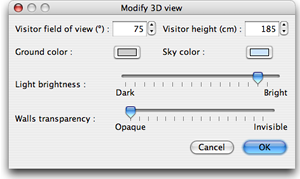
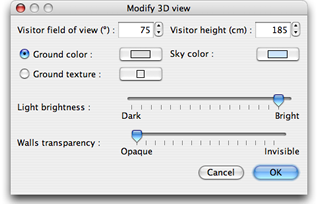
Updated help pages for version 1.2

Changed region(s): [[0.0, 0.0, 1.0, 1.0]]

diff --git a/SweetHome3D/src/com/eteks/sweethome3d/swing/resources/help/fr/editingWalls.html b/SweetHome3D/src/com/eteks/sweethome3d/swing/resources/help/fr/editingWalls.html
@@ -62,14 +62,14 @@
           <tr valign="top">
             <td nowrap><p>3.</p>
             </td>
-            <td><p>L'indicateur d'arriv&eacute;e du mur indique &agrave;  quel point se termine un mur.</p>
+            <td><p>L'indicateur de fin du mur indique &agrave;  quel point se termine un mur.</p>
             </td>
           </tr>
           <tr valign="top">
             <td nowrap><p>4.</p>
             </td>
-            <td><p>L'indicateur de taille du point d'arriv&eacute;e montre le point que vous pouvez glisser-d&eacute;poser
-                pour d&eacute;placer le point d'arriv&eacute;e du mur.</p>
+            <td><p>L'indicateur de taille du point de fin montre le point que vous pouvez glisser-d&eacute;poser
+                pour d&eacute;placer le point de fin du mur.</p>
             </td>
           </tr>
         </table>
@@ -79,17 +79,20 @@
 </div>
 <table width="100%" border="0" cellspacing="0" cellpadding="3">
   <tr>
-    <td><p>Quand le pointeur de la souris survole sur le point de d&eacute;part ou d'arriv&eacute;e du mur s&eacute;lectionn&eacute;,
+    <td><p>Quand le pointeur de la souris survole  le point de d&eacute;part ou de fin du mur s&eacute;lectionn&eacute;,
         celui-ci change d'aspect pour indiquer que vous pouvez glisser-d&eacute;poser ce point pour le d&eacute;placer.
         Pendant que vous appuyez sur le bouton de la souris, une info-bulle indique la longueur du mur.<br>
         Les murs modifi&eacute;s avec la souris sont dessin&eacute;s simultan&eacute;ment dans le plan et la vue 3D. </p>
         <p>Un mur peut &ecirc;tre aussi modifi&eacute;  gr&acirc;ce &agrave; son panneau, en double-cliquant sur ce mur
           dans le plan du logement, ou en choisissant <i>Plan
           &gt; Modifier les murs...</i> apr&egrave;s l'avoir s&eacute;lectionn&eacute;.</p>
-        <p align="center"><img src="images/editingWalls.png" width="301" height="264"></p>
-        <p>Dans le panneau du mur, vous pouvez modifier les coordonn&eacute;es de ses points de d&eacute;part et d'arriv&eacute;e,
-          les couleurs des ses c&ocirc;t&eacute;s gauche et droit, son &eacute;paisseur et sa hauteur.<br>
-          Utilisez les indicateurs de d&eacute;part et d'arriv&eacute;e dessin&eacute;s dans le plan sur chaque mur s&eacute;lectionn&eacute;  pour
+        <p align="center"><img src="images/editingWalls.png" width="323" height="369"></p>
+        <p>Dans le panneau du mur, vous pouvez modifier les coordonn&eacute;es de ses points de d&eacute;part et de fin,
+          les couleurs ou les textures de ses c&ocirc;t&eacute;s gauche et droit, son &eacute;paisseur et sa hauteur.<br>
+          Si c'est un mur inclin&eacute; d'un sous-pente
+          , choisissez des hauteurs diff&eacute;rentes &agrave; ses points de d&eacute;part et de fin, et assurez-vous que
+          le bouton radio <i>Mur inclin&eacute;</i> est s&eacute;lectionn&eacute;.<br>
+          Utilisez les indicateurs de d&eacute;part et de fin dessin&eacute;s dans le plan sur chaque mur s&eacute;lectionn&eacute;  pour
           distinguer son c&ocirc;t&eacute; gauche de son c&ocirc;t&eacute; droit.</p>
       </td>
   </tr>

diff --git a/SweetHome3D/src/com/eteks/sweethome3d/swing/resources/help/fr/drawingWalls.html b/SweetHome3D/src/com/eteks/sweethome3d/swing/resources/help/fr/drawingWalls.html
@@ -33,7 +33,7 @@
         les murs                                                                                                                                                                                                                                                                                                                                                                                                                                                                                                                                                                                                                                                                                                                                                                                                                                                                                                                                                                                                                                       </i></p>
 	    </blockquote>	  
 	  <p>Cliquez dans le plan du logement au point de d&eacute;part du nouveau mur,
-	    puis cliquez ou double-cliquez dans le plan &agrave; son point d'arriv&eacute;e.
+	    puis cliquez ou double-cliquez dans le plan &agrave; son point de fin.
 	    Tant que vous ne double-cliquez pas ou que vous n'appuyez pas sur la touche Echap, chaque nouveau clic d&eacute;signe
 	    le point oppos&eacute; du mur en cours de cr&eacute;ation et le point de d&eacute;part du mur suivant. Pendant le dessin
 	    d'un ensemble de murs, l'extr&eacute;mit&eacute; de d&eacute;part du premier mur sera attach&eacute;e &agrave; l'extr&eacute;mit&eacute; d'un
@@ -96,7 +96,7 @@
         </td>
         <td>
           <p>Une fois qu'un mur est cr&eacute;&eacute;, vous pouvez<a href=editingWalls.html"> changer</a> sa position,
-            sa longueur, son &eacute;paisseur, sa hauteur et ses couleurs.</p>
+            sa longueur, son &eacute;paisseur, sa hauteur, ses couleurs ou les textures qui y sont appliqu&eacute;es.</p>
         </td>
 	    </tr>
 	  <tr valign="top">

diff --git a/SweetHome3D/src/com/eteks/sweethome3d/swing/resources/help/en/editingWalls.html b/SweetHome3D/src/com/eteks/sweethome3d/swing/resources/help/en/editingWalls.html
@@ -82,11 +82,13 @@
         <p>A wall may also be  edited thanks to its pane, by double-clicking on that wall in home plan, or by choosing <i>Plan &gt; Modify
             walls...</i> after
           selecting it.</p>
-        <p align="center"><img src="images/editingWalls.png" width="300" height="264"></p>
-        <p>In the wall pane, you may change&nbsp;the coordinates of its start and end point, the colors of its left and right
-          sides, its thickness and its height.<br>
-          Use the wall start and wall end indicators drawn in plan on each selected wall  to distinguish its left side from
-          its right side.</p>
+        <p align="center"><img src="images/editingWalls.png" width="302" height="367"></p>
+        <p>In the wall pane, you may change&nbsp;the coordinates of its start and end points, the colors or the textures
+          of its left and right sides, its thickness and its height.<br>
+          If it's a sloping wall of a garret, choose different heights at its start and  end points, and ensure
+          yourself that the <i>Sloping wall</i> radio button is selected.<br>
+          Use the wall start and wall end indicators drawn in plan on each selected wall  to distinguish its left side
+          from its right side.</p>
       </td>
   </tr>
 </table>

diff --git a/SweetHome3D/src/com/eteks/sweethome3d/swing/resources/help/en/tips.html b/SweetHome3D/src/com/eteks/sweethome3d/swing/resources/help/en/tips.html
@@ -137,6 +137,14 @@
                                   divide it in multiple segments at its <a href="drawingWalls.html">creation</a>. </P>
                               </TD>
 						  </TR>
+							<TR VALIGN="top">
+                              <td><p>&#149;</p>
+                              </td>
+                              <TD>
+                                <P>To build the sloping walls of a garret, <a href="editingWalls.html">choose</a> different
+                                  heights at theirs start and end points.</P>
+                              </TD>
+						  </TR>
 						  <TR VALIGN="top">
                               <td width="16"><p>&#149;</p></td>
                               <TD>
@@ -174,8 +182,8 @@
 							<tr valign="top">
 								<td width="16"><p>&#149;</p></td>
 								<td>
-									<p>If you want to align a set of pieces of furniture, select these pieces and choose one of the <i>Furniture &gt; Align</i> menus.
-								  Furniture are aligned on the first selected piece.</p>
+									<p>If it's a sloping wall of a garret, choose different heights at its start and end points, and ensure yourself
+								  that the Sloping wall radio button is selected.</p>
 							  </td>
 							</tr>
 							<TR VALIGN="top">

diff --git a/SweetHome3D/src/com/eteks/sweethome3d/swing/resources/help/fr/editing3DView.html b/SweetHome3D/src/com/eteks/sweethome3d/swing/resources/help/fr/editing3DView.html
@@ -101,9 +101,10 @@
         glissez-d&eacute;posez le, ou s&eacute;lectionnez le et appuyez sur les  fl&egrave;ches du clavier. </p>
         <p>D'autres attributs de la vue  3D peuvent &ecirc;tre modifi&eacute;s en choisissant <i>Vue
             3D &gt; Modifier...</i>.</p>
-        <p align="center"><img src="images/editing3DView.png" width="352" height="179"></p>
+        <p align="center"><img src="images/editing3DView.png" width="368" height="207"></p>
         <p>Dans le panneau de la vue 3D, vous pouvez modifier le champ de vue du visiteur virtuel, sa hauteur,
-          la couleur du sol et du ciel (ou du plafond), l'intensit&eacute; de la lumi&egrave;re et la transparence des murs.<br>
+          la couleur du sol et du ciel (ou du plafond), la texture du sol, l'intensit&eacute; de la lumi&egrave;re et la
+          transparence des murs.<br>
         L'&eacute;l&eacute;vation du point du vue du visiteur virtuel est &eacute;gale aux 13/14 de sa hauteur selon les proportions d'un adulte
         humain.</p>
       </td>

diff --git a/SweetHome3D/src/com/eteks/sweethome3d/swing/resources/help/en/editing3DView.html b/SweetHome3D/src/com/eteks/sweethome3d/swing/resources/help/en/editing3DView.html
@@ -99,9 +99,9 @@
         it and press the keyboard arrows. </p>
         <p>Other attributes of the 3D view may be edited  by choosing <i>3D
           view &gt; Modify...</i>.</p>
-        <p align="center"><img src="images/editing3DView.png" width="300" height="179"></p>
+        <p align="center"><img src="images/editing3DView.png" width="318" height="204"></p>
         <p>In the 3D view pane, you may change&nbsp;the virtual visitor field of view, its height, the ground and
-          sky (or ceiling) color, the light brightness and walls transparency.<br>
+          sky (or ceiling) color, the ground texture, the light brightness and walls transparency.<br>
           The elevation of the virtual visitor point of view is equal to 13/14 of its height to respect adult human proportions.</p>
       </td>
   </tr>

diff --git a/SweetHome3D/src/com/eteks/sweethome3d/swing/resources/help/fr/tips.html b/SweetHome3D/src/com/eteks/sweethome3d/swing/resources/help/fr/tips.html
@@ -146,6 +146,14 @@
                               </TD>
 						  </TR>
 							<TR VALIGN="top">
+                              <td><p>&#149;</p>
+                              </td>
+                              <TD>
+                                <P>Pour construire les murs inclin&eacute;s d'un sous-pente, <a href="editingWalls.html">choisissez</a> des
+                                  hauteurs diff&eacute;rentes &agrave; leurs points de d&eacute;part et de fin.</P>
+                              </TD>
+						  </TR>
+							<TR VALIGN="top">
                               <td width="16"><p>&#149;</p></td>
                               <TD>
                                 <P>Quand vous choisissez <i>Edition &gt; Copier</i> or <i>Edition &gt; Couper</i>, les objets

diff --git a/SweetHome3D/src/com/eteks/sweethome3d/swing/resources/help/fr/editingDimensions.html b/SweetHome3D/src/com/eteks/sweethome3d/swing/resources/help/fr/editingDimensions.html
@@ -69,9 +69,9 @@
           <tr valign="top">
             <td nowrap><p>3.</p>
             </td>
-            <td><p>L'indicateur de taille du point d'arriv&eacute;e montre le point et la ligne d'extension que vous pouvez
+            <td><p>L'indicateur de taille du point de fin montre le point et la ligne d'extension que vous pouvez
                 glisser-d&eacute;poser
-                pour d&eacute;placer le point d'arriv&eacute;e de la cote.</p>
+                pour d&eacute;placer le point de fin de la cote.</p>
             </td>
           </tr>
         </table>

diff --git a/SweetHome3D/src/com/eteks/sweethome3d/swing/resources/help/en/drawingWalls.html b/SweetHome3D/src/com/eteks/sweethome3d/swing/resources/help/en/drawingWalls.html
@@ -96,7 +96,7 @@
         </td>
         <td>
           <p>Once a wall is created, you may <a href=editingWalls.html">change</a> its location, its length, its thickness,
-            its height and its colors.</p>
+            its height,  its colors or  its textures.</p>
         </td>
 	    </tr>
 	  <tr valign="top">
